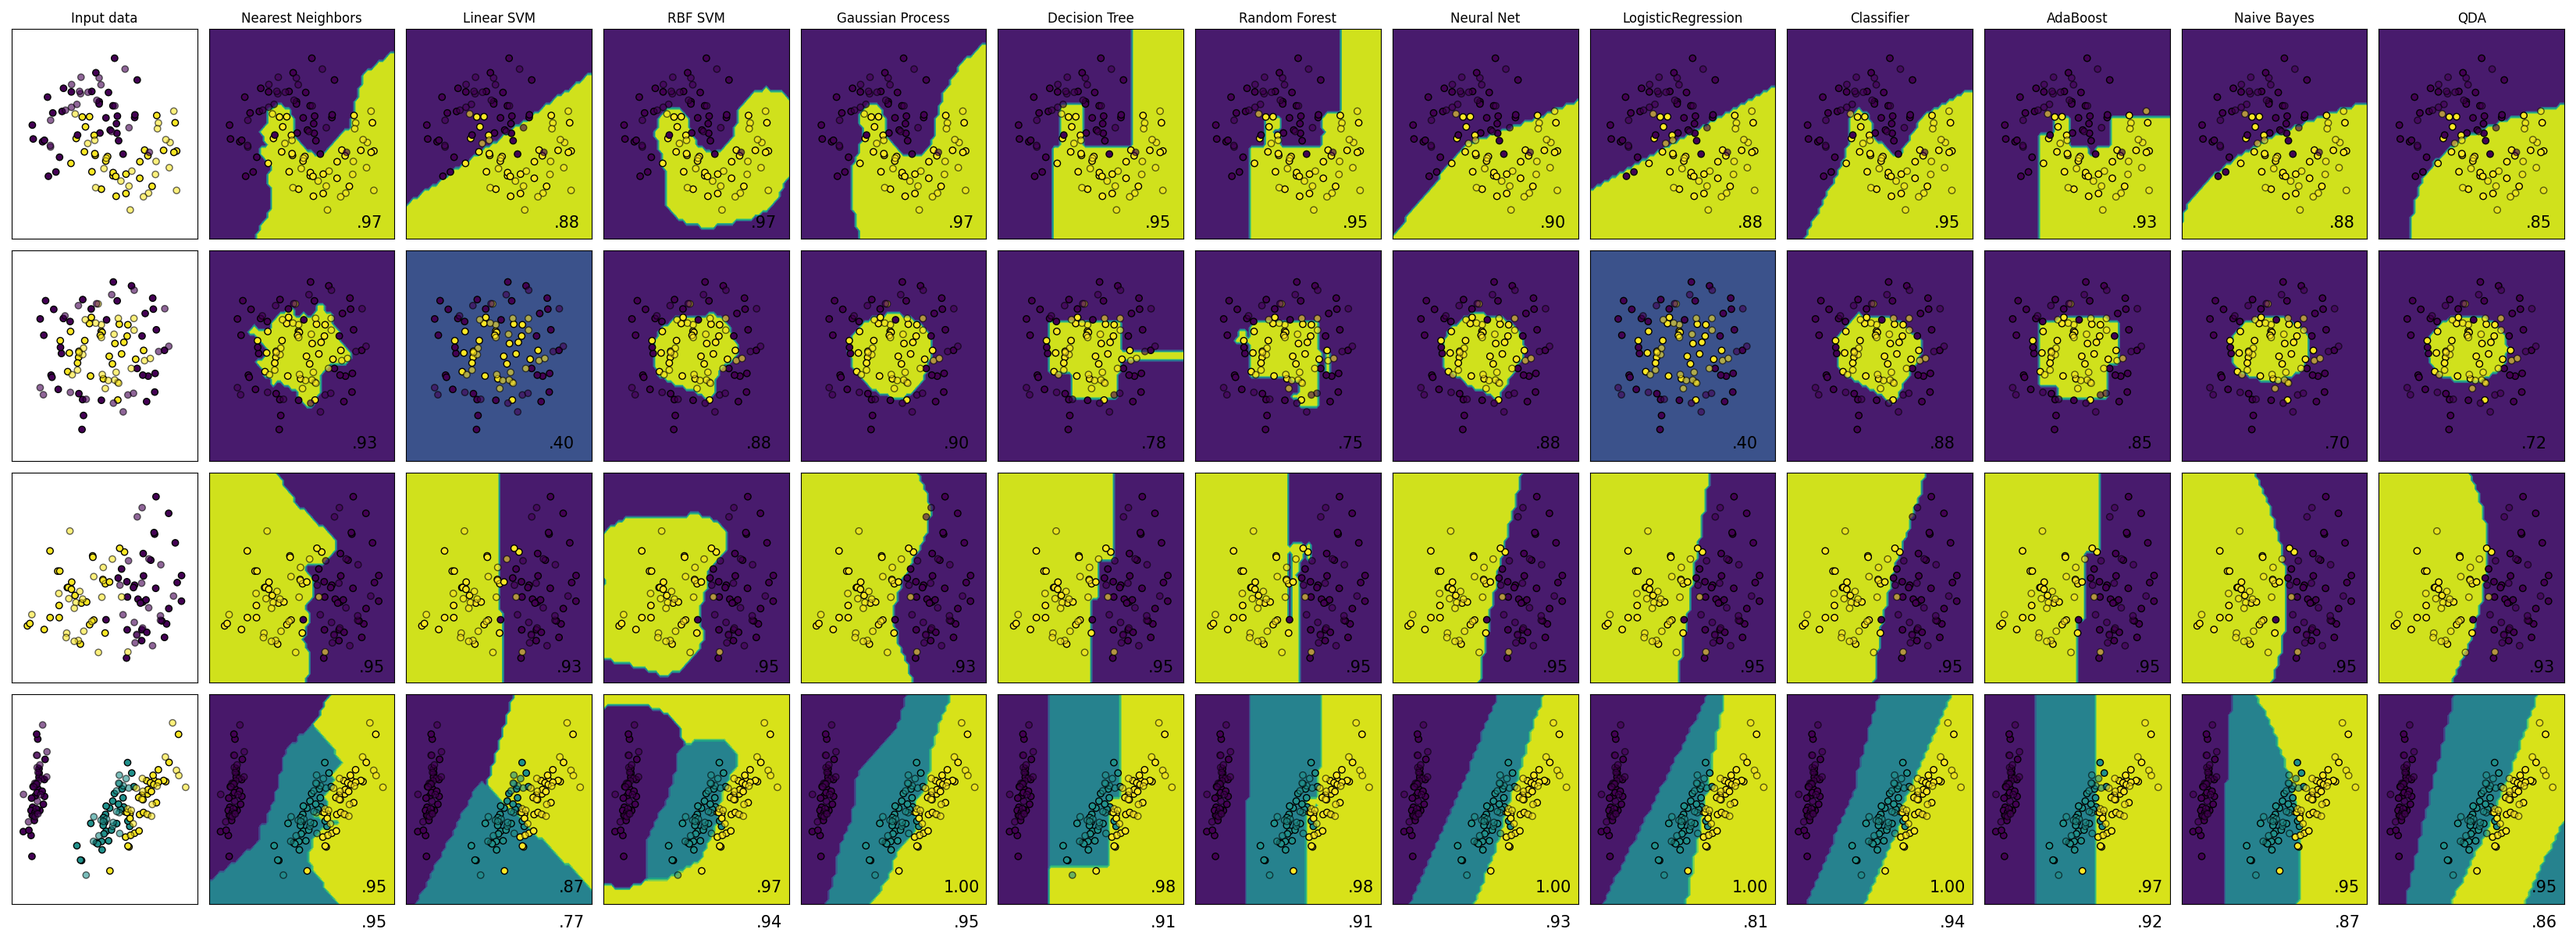
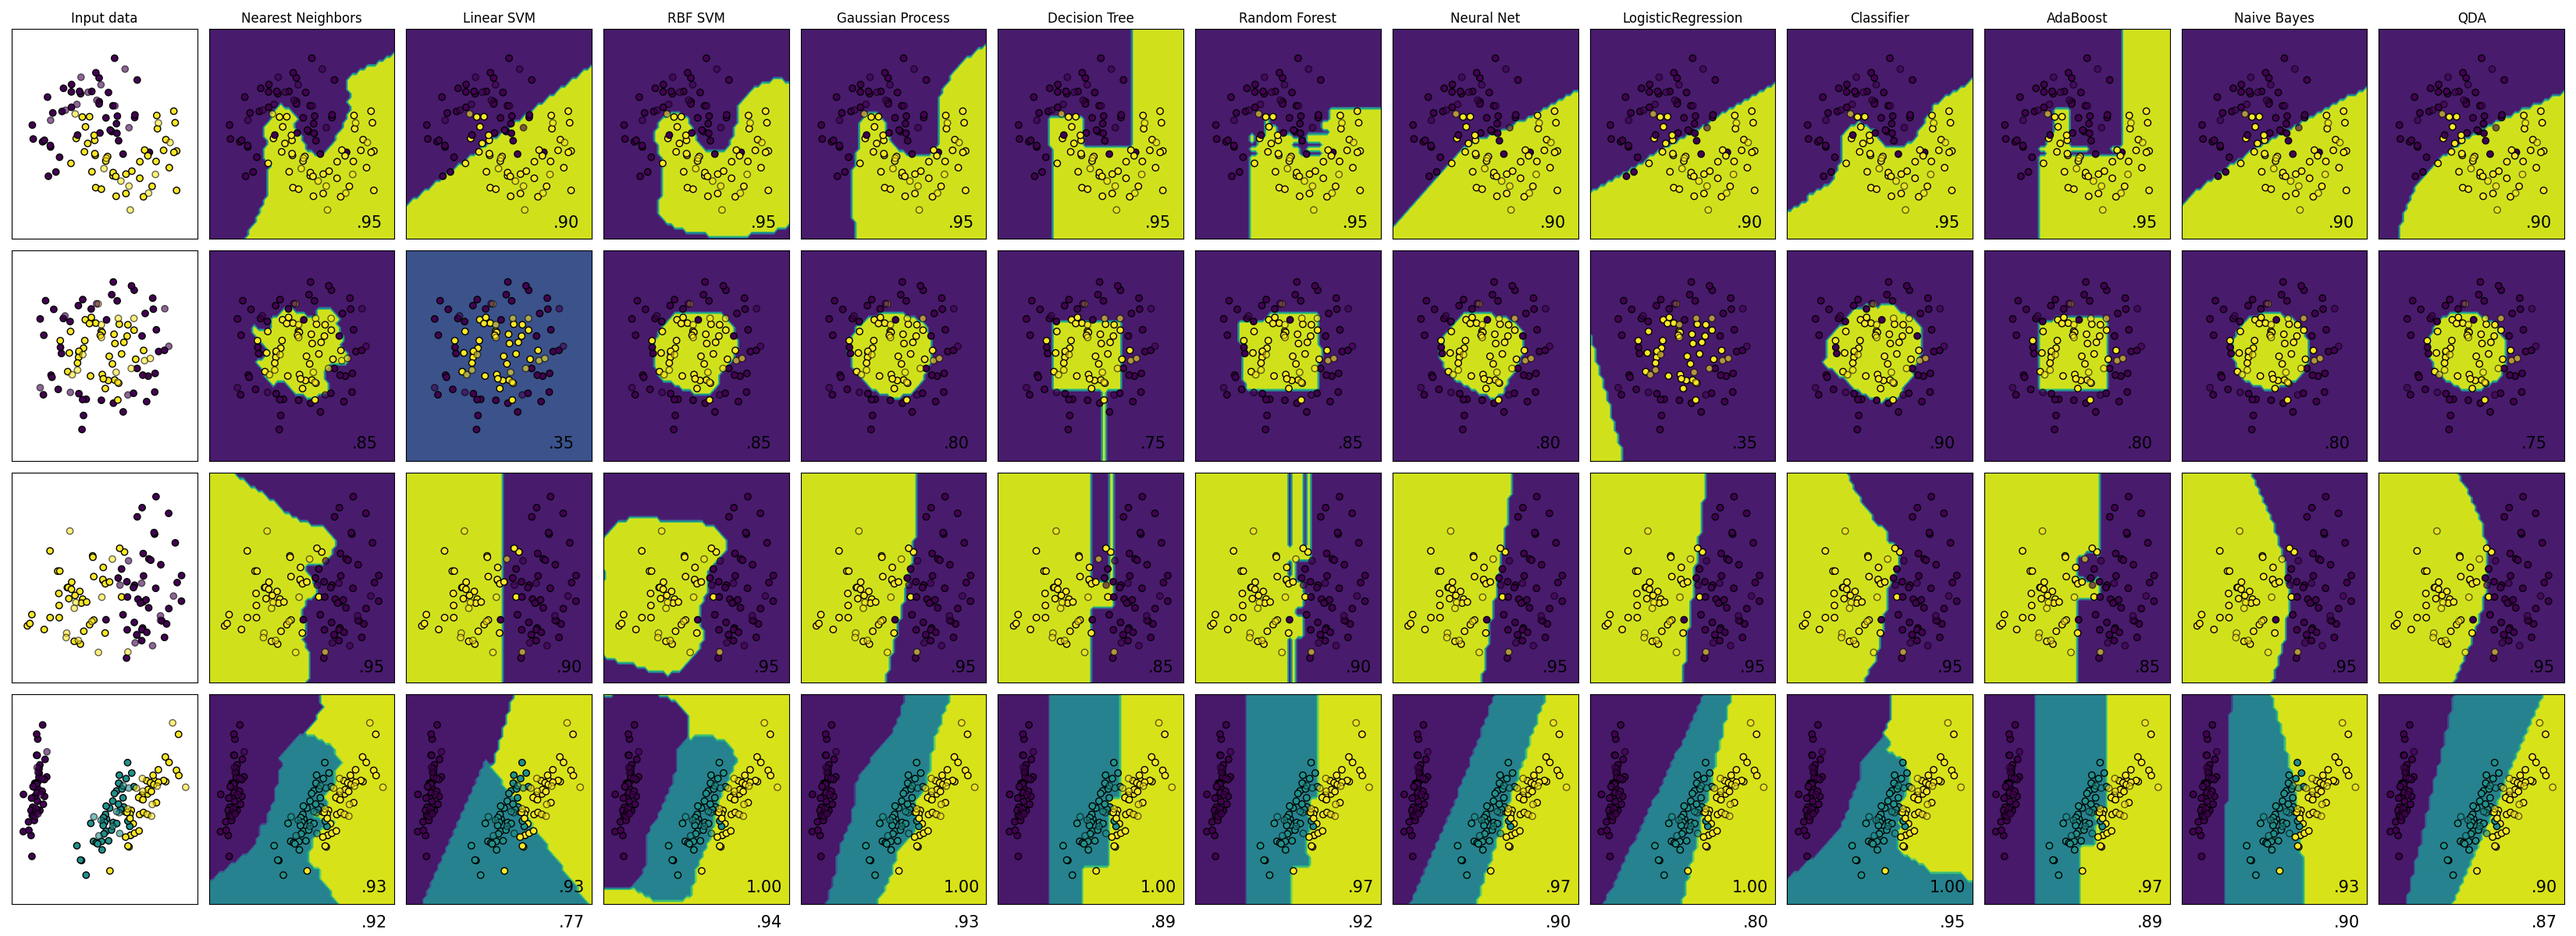
Initial implementation

diff --git a/plot_classifier_comparison.py b/plot_classifier_comparison.py
@@ -1,5 +1,3 @@
-import datetime
-
 import matplotlib.pyplot as plt
 import numpy as np
 
@@ -20,6 +18,8 @@ from sklearn.pipeline import make_pipeline
 from sklearn.preprocessing import StandardScaler
 from sklearn.svm import SVC
 from sklearn.tree import DecisionTreeClassifier
+
+from classifier import Classifier
 
 names = [
     "Nearest Neighbors",
@@ -47,7 +47,7 @@ classifiers = [
     ),
     MLPClassifier(alpha=1, max_iter=1000, random_state=42),
     LogisticRegression(random_state=42),
-    MLPClassifier(alpha=0.0025, batch_size=10, max_iter=2500, hidden_layer_sizes=(10,), random_state=42),
+    Classifier(20, 0.9),
     AdaBoostClassifier(algorithm="SAMME", random_state=42),
     GaussianNB(),
     QuadraticDiscriminantAnalysis(),
@@ -76,7 +76,7 @@ for ds_cnt, ds in enumerate(datasets):
     # preprocess dataset, split into training and test part
     X, y = ds
     X_train, X_test, y_train, y_test = train_test_split(
-        X, y, test_size=0.4, random_state=42
+        X, y, test_size=0.2, random_state=42
     )
 
     x_min, x_max = X[:, 0].min() - 0.5, X[:, 0].max() + 0.5
@@ -89,9 +89,7 @@ for ds_cnt, ds in enumerate(datasets):
     # Plot the training points
     ax.scatter(X_train[:, 0], X_train[:, 1], c=y_train, edgecolors="k")
     # Plot the testing points
-    ax.scatter(
-        X_test[:, 0], X_test[:, 1], c=y_test, alpha=0.6, edgecolors="k"
-    )
+    ax.scatter(X_test[:, 0], X_test[:, 1], c=y_test, alpha=0.6, edgecolors="k")
     ax.set_xlim(x_min, x_max)
     ax.set_ylim(y_min, y_max)
     ax.set_xticks(())
@@ -106,15 +104,17 @@ for ds_cnt, ds in enumerate(datasets):
         clf.fit(X_train, y_train)
         score = accuracy_score(y_test, clf.predict(X_test))
         scores[cl_cnt] += score
-        feature_1, feature_2 = np.meshgrid(np.linspace(x_min, x_max), np.linspace(y_min, y_max))
+        feature_1, feature_2 = np.meshgrid(
+            np.linspace(x_min, x_max), np.linspace(y_min, y_max)
+        )
         grid = np.vstack([feature_1.ravel(), feature_2.ravel()]).T
         y_pred = np.reshape(clf.predict(grid), feature_1.shape)
-        DecisionBoundaryDisplay(xx0=feature_1, xx1=feature_2, response=y_pred).plot(ax=ax)
+        DecisionBoundaryDisplay(xx0=feature_1, xx1=feature_2, response=y_pred).plot(
+            ax=ax
+        )
 
         # Plot the training points
-        ax.scatter(
-            X_train[:, 0], X_train[:, 1], c=y_train, edgecolors="k"
-        )
+        ax.scatter(X_train[:, 0], X_train[:, 1], c=y_train, edgecolors="k")
         # Plot the testing points
         ax.scatter(
             X_test[:, 0],

diff --git a/classifier.py b/classifier.py
@@ -1,0 +1,35 @@
+import math
+
+import numpy as np
+
+
+class Classifier:
+    def __init__(self, n_neighbors=20, gamma=0.9):
+        self.n_neighbors = n_neighbors
+        self.gamma = gamma
+        self.X = None
+        self.y = None
+        self.n_classes = None
+
+    def fit(self, X, y):
+        self.X = np.array(X)
+        self.y = np.array(y)
+
+    def distance(self, A, B):
+        return math.sqrt(math.pow(A[0] - B[0], 2) + math.pow(A[1] - B[1], 2))
+
+    def predict(self, X):
+        predictions = []
+        for x in X:
+            distances = np.array([self.distance(x, d) for d in self.X])
+            closest = distances.argsort()[: self.n_neighbors]
+            results = {}
+            for c in closest:
+                value = self.y[c]
+                if value not in results:
+                    results[value] = []
+                results[value].append(distances[c])
+            for key, value in results.items():
+                results[key] = np.mean(value) * math.pow(self.gamma, len(value))
+            predictions.append(min(results, key=results.get))
+        return predictions

diff --git a/p_value.py b/p_value.py
@@ -2,8 +2,12 @@ from sklearn.datasets import load_iris
 
 iris = load_iris()
 
-versicolor_sepal_length = [length for i, length in enumerate(iris.data[:, 0]) if iris.target[i] == 1]
-virginica_sepal_length = [length for i, length in enumerate(iris.data[:, 0]) if iris.target[i] == 2]
+versicolor_sepal_length = [
+    length for i, length in enumerate(iris.data[:, 0]) if iris.target[i] == 1
+]
+virginica_sepal_length = [
+    length for i, length in enumerate(iris.data[:, 0]) if iris.target[i] == 2
+]
 print(versicolor_sepal_length)
 print(virginica_sepal_length)
 
